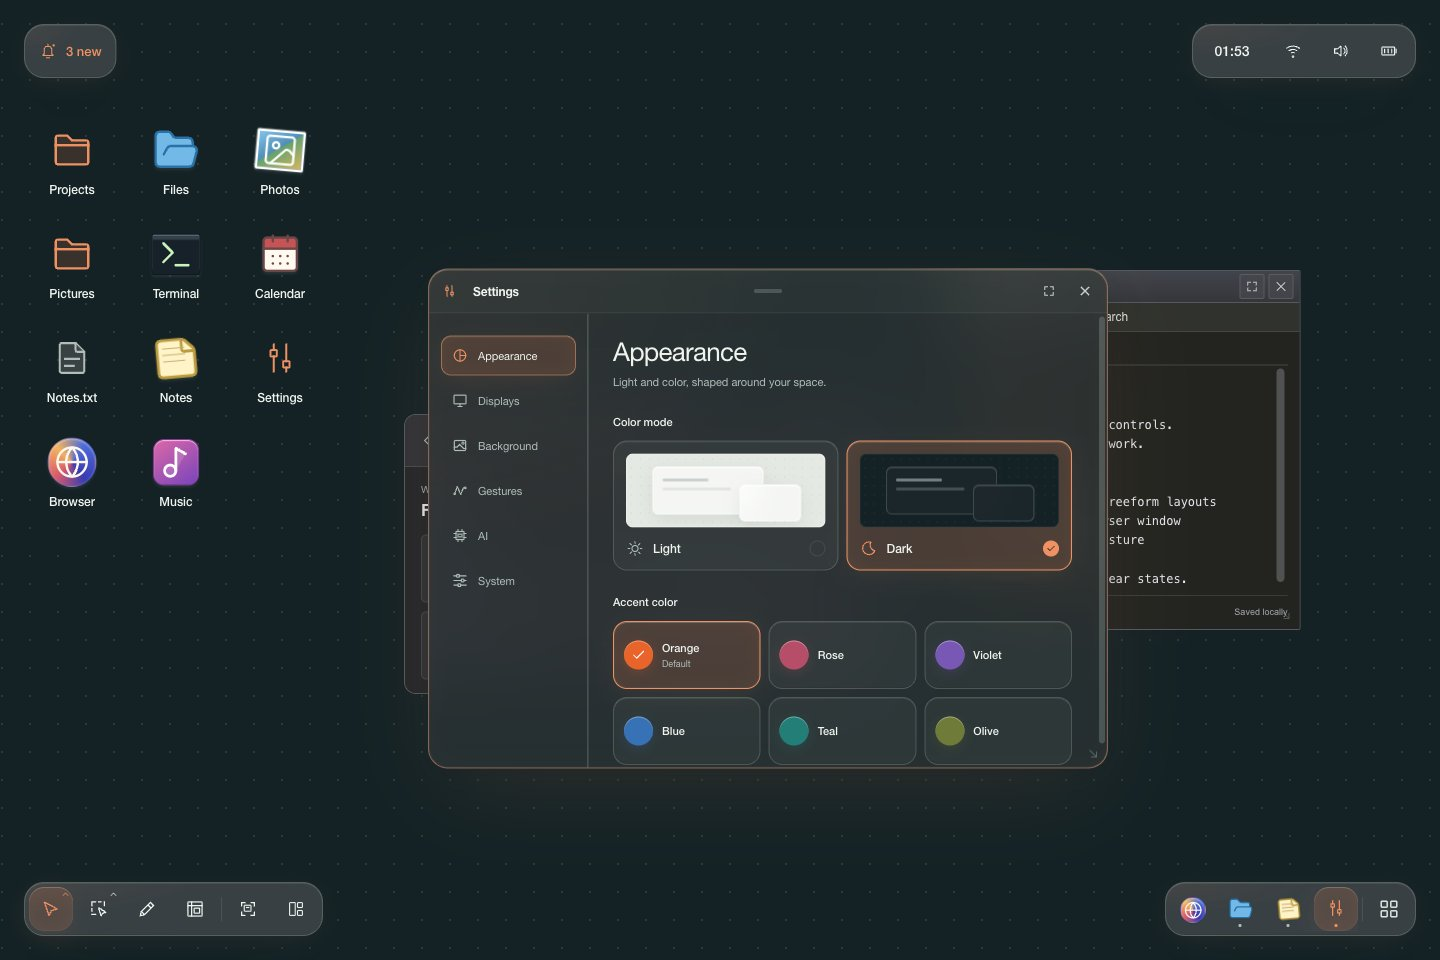
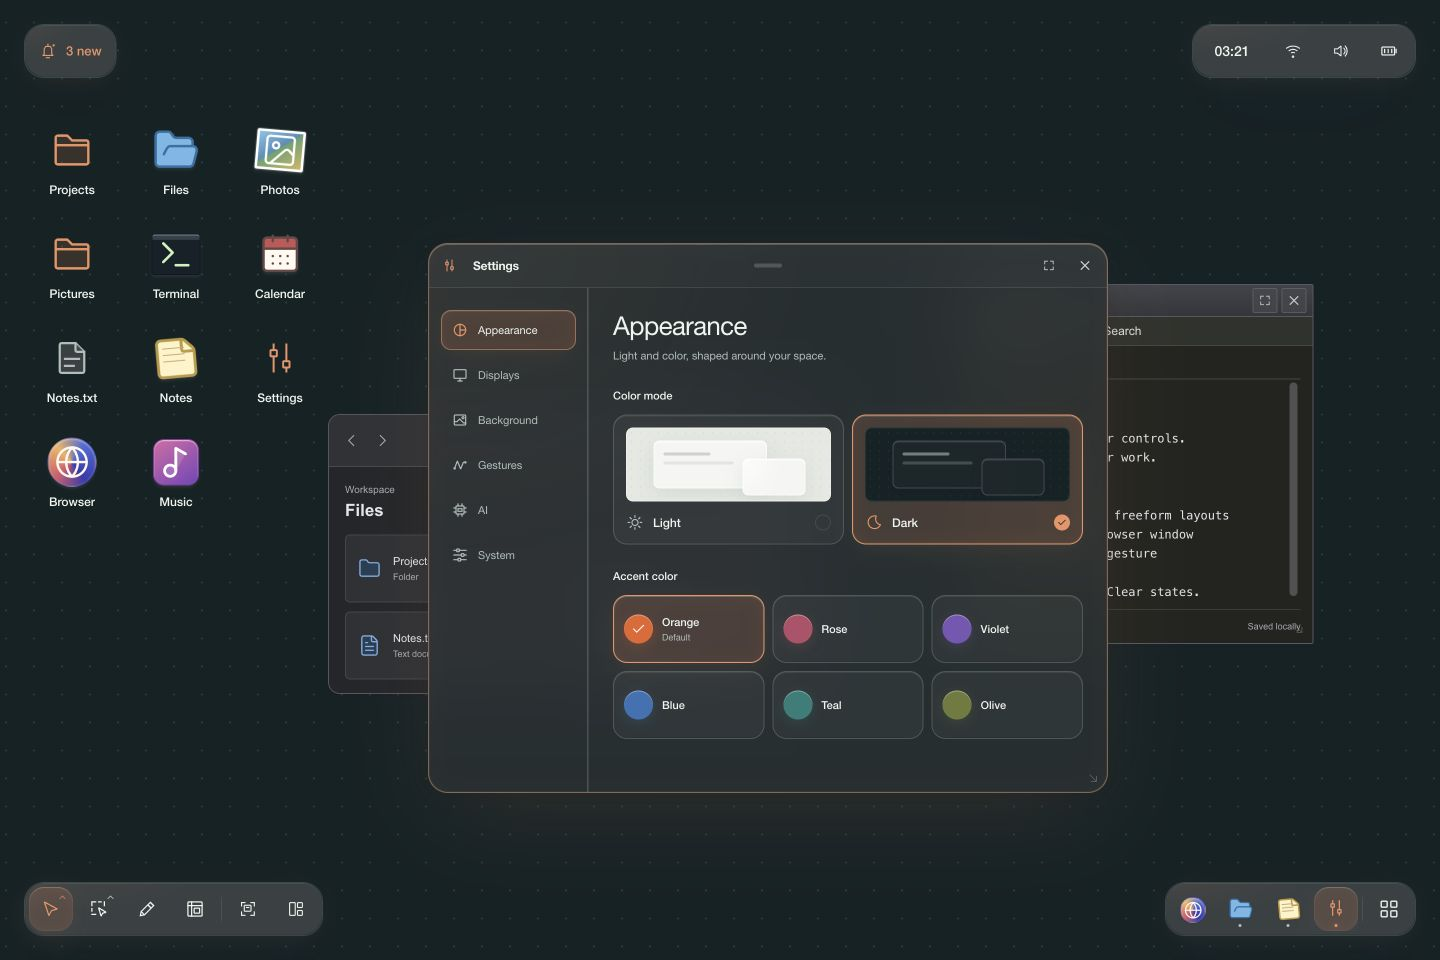
docs: refresh README desktop screenshot

diff --git a/README.md b/README.md
@@ -2,7 +2,7 @@
 
 A private browser playground for trying desktop ideas for [Hearthspace](https://github.com/crutchcorn/hearthspace), a Linux distribution exploring how computing could work. Spread windows, files, and drawings across a large canvas, attach things you want nearby to its frame, and use search to bring work into view without losing its place.
 
-![Hearthspace in dark mode, with translucent Settings over app windows, a uniform dotted canvas, and custom controls in all four corners.](assets/hearthspace-desktop.jpg)
+![Hearthspace desktop in dark mode, with Appearance settings over app windows, desktop shortcuts, and controls in all four corners.](assets/hearthspace-desktop.jpg)
 
 Think of it as a [painting canvas inside a frame](docs/canvas-and-frame.md). Work can move with the painting or stay attached to its edges. The default arrangement puts compact controls in four corners, with thin translucent surfaces that pick up color from the work beneath them. We've repeatedly removed labels, counts, and instructions that only describe what's already visible. The selected window's name in the switcher helps you choose; a permanent “Drag to explore” caption doesn't need to occupy your desktop.
 
